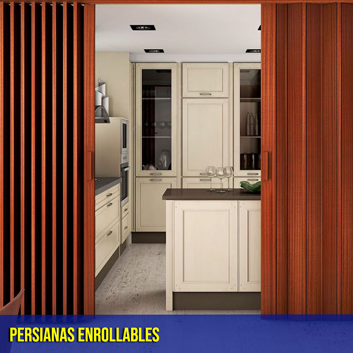
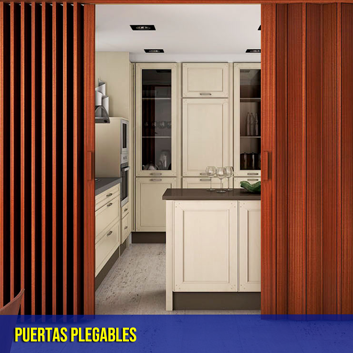
actualizacion 150423

Changed region(s): [[0.0, 0.9037, 0.4674, 0.9972]]

diff --git a/Toldos.html b/Toldos.html
@@ -73,7 +73,7 @@
 										<img src="images/Deco_enrollables1.png" alt="" />
 									</span>
 									<a href="Persiana_Venecianas.html">
-										<h2>Persiana Venecianas</h2>
+										<h2>Toldos en aluminio</h2>
 										<div class="content">
 											<p>Sed nisl arcu euismod sit amet nisi lorem etiam dolor veroeros et feugiat.</p>
 										</div>
@@ -81,10 +81,10 @@
 								</article>
 								<article class="style2">
 									<span class="image">
-										<img src="images/Deco_miniflex1.png" alt="" />
+										<img src="images/Deco_Toldo_vinilo.png" alt="" />
 									</span>
 									<a href="Persiana_Miniflex.html">
-										<h2>Persiana Miniflex</h2>
+										<h2>Toldos en vinilo</h2>
 										<div class="content">
 											<p>Sed nisl arcu euismod sit amet nisi lorem etiam dolor veroeros et feugiat.</p>
 										</div>
@@ -92,15 +92,16 @@
 								</article>
 								<article class="style3">
 									<span class="image">
-										<img src="images/Deco_madera1.png" alt="" />
+										<img src="images/Deco_Toldo_estacionamiento.png" alt="" />
 									</span>
 									<a href="Persiana_Verticales.html">
-										<h2>Persiana Verticales</h2>
+										<h2>Toldos para estacionamientos</h2>
 										<div class="content">
 											<p>Sed nisl arcu euismod sit amet nisi lorem etiam dolor veroeros et feugiat.</p>
 										</div>
 									</a>
 								</article>
+								<!--
 								<article class="style4">
 									<span class="image">
 										<img src="images/Deco_Plegables1.png" alt="" />
@@ -134,7 +135,7 @@
 										</div>
 									</a>
 								</article>
-								<!--<article class="style6">
+								<article class="style6">
 									<span class="image">
 										<img src="images/Deco_Antes_plegable1.png" alt="" />
 									</span>

diff --git a/Puertas.html b/Puertas.html
@@ -56,7 +56,7 @@
 					<div id="main">
 						<div class="inner">
 							<h1>Puertas</h1>
-							<span class="image main"><img src="images/verticales2.jpg" alt="" /></span>
+							<span class="image main"><img src="images/Puertas_plegables_portada.png" alt="" /></span>
 							<p><b>Las puertas</b> son elementos que aportan privacidad, calidez, personalidad y estilo a su hogar y oficina. Especialmente aquellas que permiten la separación y mejoramiento distributivo de los espacios y también aquellas que conservan la intimidad personal en la ducha. 
 							</p>
 							<h5>Constamos con varias modalidades de puertas:</h5>
@@ -73,13 +73,13 @@
 									<a href="Persiana_Venecianas.html">
 										<h2>Puertas Plegables</h2>
 										<div class="content">
-											<p>Sed nisl arcu euismod sit amet nisi lorem etiam dolor veroeros et feugiat.</p>
+											<p style="text-align: center;">Divida su ambiente con armonia.</p>
 										</div>
 									</a>
 								</article>
 								<article class="style2">
 									<span class="image">
-										<img src="images/Deco_miniflex1.png" alt="" />
+										<img src="images/Deco_Puerta_bano_Acri1.png" alt="" />
 									</span>
 									<a href="Persiana_Miniflex.html">
 										<h2>Puertas para duchas Acrilicas</h2>

diff --git a/assets/css/main.css b/assets/css/main.css
@@ -25,6 +25,7 @@ section, summary, time, mark, audio, video {
 	font: inherit;
 	vertical-align: baseline;}
 
+
 article, aside, details, figcaption, figure,
 footer, header, hgroup, menu, nav, section {
 	display: block;}
